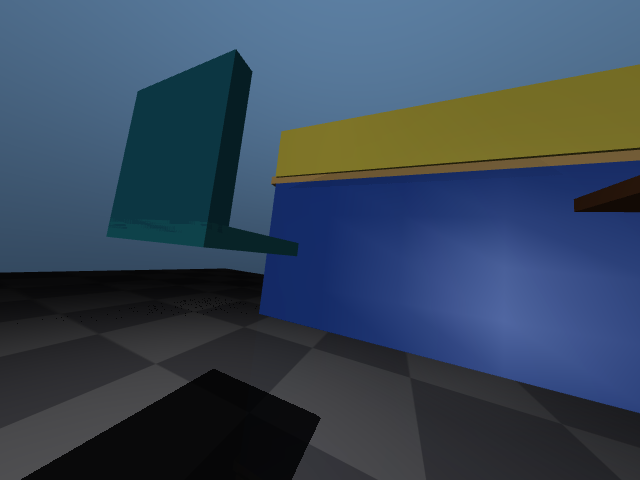
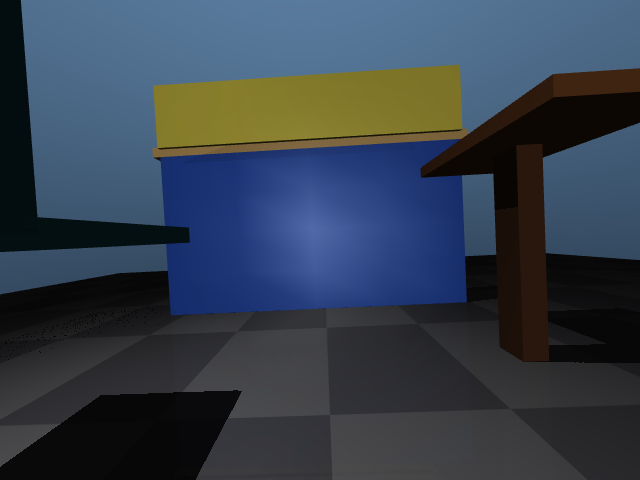
Walk find-kitchen at half the forward cap.
Full-cap slices and short slices with stand pauses did not get past about
0.4 m without crossing up_z 0.90 or losing the blob. vel(+0.028) reaches
the 0.60 m budget at min up_z 0.989, with 0.705 m still to the counter.
Arrival bars are unchanged. The plant file is untouched.

diff --git a/scripts/find_kitchen.py b/scripts/find_kitchen.py
@@ -13,12 +13,14 @@ are a sim honesty check that the blob sits on the kitchen. They are not
 waypoints and they are not given to a planner. If the backsplash is missing,
 split, or off the kitchen body, the finder sends no vel.
 
-The phrase path re-scores kit_cam every 0.40 s. A centered blob is forward
-at the bus cap. A side blob is the same forward cap plus a yaw trim scaled
-by the bias, not a held full-cap turn. The 1.2 s single forward hop stays
-in --self-test and still uses vx=0 for its one yaw. A burst budget near
-0.6 m is a stop, not a goal pose. Arrival is claimed only when the
-backsplash fills at least half the frame and the torso is within 0.25 m
+The phrase path re-scores kit_cam every 0.40 s and walks at half the
+forward cap (0.028 m/s). A centered blob is that vx with yaw 0. A side blob
+adds a yaw trim scaled by the bias. Full-cap slices and short slices with
+stand pauses between them are not this path: the first crossed up_z 0.90
+near +0.39 m, and the pauses never got past ~0.1 m. The up_z bar stays
+0.90. The 1.2 s hop stays in --self-test at the full forward cap. A burst
+budget near 0.6 m is a stop, not a goal pose. Arrival is claimed only when
+the backsplash fills at least half the frame and the torso is within 0.25 m
 of the kitchen geom. Otherwise the summary reports end x and the remaining
 gap and does not say arrived.
 
@@ -73,15 +75,19 @@ STAND_S = 0.60
 SETTLE_S = 0.60
 YAW_HOLD_S = 1.00
 FORWARD_HOLD_S = 1.20
-# Phrase path. kit_cam is scored between these slices.
-# A held full-cap walking turn (about 2 s of vel(+0.056, ±0.25)) pitched
-# through up_z 0.90 and the bus then faulted. These 0.40 s slices, with yaw
-# scaled by the bias, stayed above 0.92 out to the 0.60 m budget.
-# vx=0 yaw does not change heading on this plant.
+# Phrase path. kit_cam is scored between these slices. The gait stays in move.
+# Full-cap slices crossed up_z 0.90 near +0.39 m. A 0.20–0.30 s slice plus a
+# stand pause does not walk: vx slews to the cap in 0.70 s, and the pause
+# either drifts backward or yaws the kitchen out of frame. Half the forward
+# cap is the softer duty that stayed above up_z 0.90. vx=0 yaw does not
+# change heading on this plant.
 BURST_FORWARD_S = 0.40
 BURST_YAW_S = 0.40
-MAX_FORWARD_BURSTS = 40
-MAX_YAW_CORRECTIONS = 48
+SOFT_VX = steer_walk.VX_FWD_CAP * 0.5
+# Half-cap realized speed is about 0.016 m/s, so the 0.60 m stop needs
+# more slices than a full-cap walk. 120 * 0.40 s covers that with margin.
+MAX_FORWARD_BURSTS = 120
+MAX_YAW_CORRECTIONS = 80
 # |bias| at which the trim uses the full yaw cap. Inside CENTER_BIAS, yaw is 0.
 YAW_BIAS_FULL = 0.35
 # Stop once world-x progress is inside the requested 0.3–0.8 m band.
@@ -595,7 +601,7 @@ def correction_command(score: KitchenScore) -> tuple[float, float] | None:
     """Approach slice: forward cap, plus a bias trim when the blob is off center."""
     if score.decision == "fail":
         return None
-    return (steer_walk.VX_FWD_CAP, trim_yaw(score.bias))
+    return (SOFT_VX, trim_yaw(score.bias))
 
 
 BurstAction = Literal["forward", "yaw_left", "yaw_right", "stop"]
@@ -882,10 +888,11 @@ def _gap(model: mj.MjModel, data: mj.MjData) -> tuple[float, float]:
 
 
 def run_approach(session: steer_walk.SteerSession, cam: KitCam) -> Approach:
-    """Forward bursts while the backsplash stays valid, with a yaw burst if it drifts.
+    """Half-cap slices while the backsplash stays valid, with a yaw trim if it drifts.
 
-    The gait is left in move across a burst boundary so the 200 ms watchdog
-    does not stand between two vel segments. Stop is the end, or a Prefer FAIL.
+    The gait stays in move across a slice boundary. A stand between slices
+    resets the velocity slew and does not advance. Stop is the budget, or a
+    Prefer FAIL. up_z under 0.90 stops. That bar is not lowered.
     """
     _hold_stand(session, STAND_S)
     before = cam.grab(session.data)
@@ -1085,13 +1092,12 @@ def _commands_legal(sent: list[SentVel], *, allow_walk_yaw: bool = False) -> str
             return f"command outside caps vx={command.vx} yaw={command.yaw_rate}"
         if command.vx < 0.0:
             return "finder sent reverse"
-        both = command.vx != 0.0 and command.yaw_rate != 0.0
-        if not both:
+        if allow_walk_yaw:
+            if abs(command.vx - SOFT_VX) > 1e-9:
+                return "approach forward is half the bus cap"
             continue
-        if not allow_walk_yaw:
+        if command.vx != 0.0 and command.yaw_rate != 0.0:
             return "yaw and forward were sent together"
-        if command.vx != steer_walk.VX_FWD_CAP:
-            return "walk-yaw forward is only the forward cap"
     return None
 
 
@@ -1217,6 +1223,9 @@ def test_pixels() -> list[str]:
     _expect(command_for("yaw_left") == (0.0, steer_walk.YAW_RATE_CAP), "yaw left command", failures)
     _expect(command_for("yaw_right") == (0.0, -steer_walk.YAW_RATE_CAP), "yaw right command", failures)
     _expect(command_for("forward") == (steer_walk.VX_FWD_CAP, 0.0), "forward command", failures)
+    soft = correction_command(_fake_score("forward", 0.04, 0.0))
+    _expect(soft == (SOFT_VX, 0.0), f"soft forward {soft}", failures)
+    _expect(abs(SOFT_VX - 0.028) < 1e-9 and SOFT_VX < steer_walk.VX_FWD_CAP, "soft vx", failures)
     _expect(steer_walk.VX_FWD_CAP == 0.056 and steer_walk.VX_BACK_CAP == 0.032, "vx caps moved", failures)
     _expect(steer_walk.YAW_RATE_CAP == 0.25, "yaw cap moved", failures)
     return failures
@@ -1521,6 +1530,7 @@ def run_phrase(phrase: str, scene: SceneName) -> int:
         "scene": str(ROOM_XML.relative_to(ROOT)),
         "phrase": phrase,
         "vx_fwd_cap": steer_walk.VX_FWD_CAP,
+        "approach_vx": SOFT_VX,
         "vx_back_cap": steer_walk.VX_BACK_CAP,
         "yaw_rate_cap": steer_walk.YAW_RATE_CAP,
         "resend_hz": 1.0 / steer_walk.VEL_RESEND_S,

diff --git a/docs/FIND_KITCHEN.md b/docs/FIND_KITCHEN.md
@@ -21,36 +21,45 @@ A named-body projection of `kitchen`, `table`, and `chair` checks that the yello
 
 ## Phrase path
 
-The bus is `CommandBus` in `scripts/steer_walk.py`: `stand`, `stop`, and `vel(vx, yaw_rate)` only. Resend is 10 Hz. 200 ms of silence stands. The finder sends the forward cap and a yaw inside the yaw cap. The bus clamps again.
+The bus is `CommandBus` in `scripts/steer_walk.py`: `stand`, `stop`, and `vel(vx, yaw_rate)` only. Resend is 10 Hz. 200 ms of silence stands. The bus caps stay +0.056 / −0.032 m/s and yaw ±0.25. The phrase sends half the forward cap. The bus clamps again.
 
-From the stand pose the blob is already centered (`|bias| ≤ 0.08`, measured bias −0.014). The phrase then walks in 0.40 s slices and re-scores `kit_cam` between them:
+From the stand pose the blob is already centered (`|bias| ≤ 0.08`, measured bias −0.014). The phrase walks in 0.40 s slices, leaves the gait in move, and re-scores `kit_cam` between them:
 
-- centered: `vel(+0.056, 0)`
-- off center: `vel(+0.056, yaw)` with `yaw = clamp(−bias / 0.35 × 0.25, ±0.25)`
+- centered: `vel(+0.028, 0)`
+- off center: `vel(+0.028, yaw)` with `yaw = clamp(−bias / 0.35 × 0.25, ±0.25)`
 
-The trim is not a heading setpoint. Full yaw cap is used only when `|bias|` reaches 0.35. `vx = 0` yaw does not change heading on this plant, so the correction is a walking turn. A held full-cap turn of about 2 s pitched through `up_z` 0.90 and the bus then faulted, so the phrase does not do that. It stops on the first sample with `up_z` under 0.90.
+The trim is not a heading setpoint. Full yaw cap is used only when `|bias|` reaches 0.35. `vx = 0` yaw does not change heading on this plant, so a correction is a walking turn at the soft forward speed.
 
-There is also a 0.60 m world-x budget. That budget is a stop inside the 0.3–0.8 m band, not a counter pose. This room run did not reach it.
+The `up_z` Prefer FAIL bar stays **0.90**. It is not lowered. A full-cap slice run on the same bar stopped at end x +0.394 m when `up_z` hit 0.894. Shorter slices with a stand between them were tried and did not get past that distance:
+
+| Trial | Result |
+|-------|--------|
+| 0.25 s vel, 0.40 s stand | Δx −0.052 m at the time limit, min up_z 0.999. The velocity slew takes 0.70 s to reach a cap, so the slice never walks and the stand drifts backward. |
+| 0.25 s vel, 0.15 s stand | Δx −0.029 m, min up_z 0.999. Same stall. |
+| 0.20 s vel, 0.30 s stand | Kitchen left the frame at Δx +0.082 m (yaw +0.79 rad), min up_z 0.956. |
+
+Half the forward cap, with no stand between slices, is the duty that stayed upright. There is still a 0.60 m world-x budget. That budget is a stop, not a counter pose.
 
 Measured phrase, "go to the kitchen", room scene, after stand:
 
 | | |
 |--|--|
-| Stop | `up_z` 0.894 (bar 0.90), min up_z 0.890, mode stand |
-| End x | **+0.394 m** (start x +0.002 m, Δx **+0.392 m**) |
-| End y, yaw | +0.061 m, +0.095 rad |
-| Remaining | **0.921 m** from the torso to the kitchen geom (near face x = 1.315 m) |
-| Final blob | yellow fraction 0.076, bias +0.102, still in frame, still right of center |
+| Stop | 0.60 m world-x budget, mode stand |
+| End x | **+0.610 m** (start x +0.002 m, Δx **+0.608 m**) |
+| End y, yaw | +0.010 m, −0.020 rad |
+| min up_z | **0.989** (bar 0.90, not crossed) |
+| Remaining | **0.705 m** from the torso to the kitchen geom (near face x = 1.315 m) |
+| Final blob | yellow fraction **0.131**, bias −0.028, still centered, still in frame |
 | Arrival | **false** |
 
-Six centered slices and thirteen yaw trims were sent. The mid still is the first frame after Δx crossed 0.30 m (yellow 0.075, bias +0.49). The counter is larger than at the start and still a small part of the frame.
+79 centered slices and 12 yaw trims were sent, all at `vx = +0.028`. The mid still is the first frame after Δx crossed 0.30 m (yellow 0.066, bias −0.042). The counter is larger than at the start. 0.131 of the frame is not half.
 
 ## What would count as arrival
 
 Both bars, on the settled stop frame:
 
-1. Yellow fraction ≥ 0.50. Half the frame is "most of the frame". Stand is 0.039 and this stop is 0.076, so the counter does not fill the frame.
-2. Torso-to-kitchen horizontal gap ≤ 0.25 m. That is contact range for this torso, not a room crossing. 0.921 m is more than three times that bar.
+1. Yellow fraction ≥ 0.50. Half the frame is "most of the frame". Stand is 0.039 and this stop is 0.131, so the counter does not fill the frame.
+2. Torso-to-kitchen horizontal gap ≤ 0.25 m. That is contact range for this torso, not a room crossing. 0.705 m is still well outside that bar.
 
 Either bar alone is not arrival. A stop inside 0.25 m with the backsplash still small would be Prefer FAIL (`close`), not arrival. The gap is read from the kitchen geom boxes so the summary can state the remaining distance. It does not choose left versus right and it is not a waypoint.
 

diff --git a/README.md b/README.md
@@ -98,7 +98,7 @@ Forward clamp is **+0.056 m/s**, reverse **−0.032 m/s**, yaw **±0.25 rad/s**.
 
 `mujoco/room_kitchen.xml` includes the frozen walk plant and adds a kitchen counter plus a table and a chair (`kitchen`, `table`, `chair`). `kit_cam` is unchanged: one camera, `head_tilt_link`, `0.050 0.019 0.007`. The floor is still the plant plane. Those body names are labels for a later vision step. They are not a navigation map, and this scene is not handed to a planner. `scripts/steer_walk.py` still loads only the frozen plant by default, so stand / forward / reverse / left / right / left-then-right stay on the empty checkerboard. See `docs/KIT_CAM_ROOM.md`.
 
-"Go to the kitchen" is a Prefer FAIL finder in `scripts/find_kitchen.py`. It runs only when `room_kitchen.xml` is loaded. From a centered backsplash it re-scores `kit_cam` every 0.40 s and sends `vel(+0.056, yaw)` on the same bus. Yaw is 0 while the blob is centered, and a bias trim inside ±0.25 when it drifts. The 0.60 m world-x budget is a stop, not a goal. This room run stopped earlier: `up_z` crossed 0.90 at end x **+0.394 m** (Δx **+0.392 m**), with **0.921 m** still to the kitchen face. That is not arrival. Arrival would require the backsplash to fill at least half the frame and the torso to be within 0.25 m of the kitchen geom. Neither bar holds. The 1.2 s hop remains a self-test (end x +0.036 m). Bathroom and the empty plant still send no velocity. See `docs/FIND_KITCHEN.md`.
+"Go to the kitchen" is a Prefer FAIL finder in `scripts/find_kitchen.py`. It runs only when `room_kitchen.xml` is loaded. From a centered backsplash it re-scores `kit_cam` every 0.40 s and sends `vel(+0.028, yaw)` — half the forward cap — on the same bus. Yaw is 0 while the blob is centered, and a bias trim inside ±0.25 when it drifts. The `up_z` 0.90 stop is unchanged. This room run reached the 0.60 m world-x budget: end x **+0.610 m** (Δx **+0.608 m**), min up_z **0.989**, **0.705 m** still to the kitchen face. Yellow fraction at the stop is 0.131. That is not arrival. Arrival would require the backsplash to fill at least half the frame and the torso to be within 0.25 m of the kitchen geom. The 1.2 s hop remains a self-test at the full cap (end x +0.036 m). Bathroom and the empty plant still send no velocity. See `docs/FIND_KITCHEN.md`.
 
 ```bash
 MUJOCO_GL=osmesa python scripts/render_kit_cam_room.py

diff --git a/docs/KIT_CAM_ROOM.md b/docs/KIT_CAM_ROOM.md
@@ -20,4 +20,4 @@ That stands the robot with the same quiet pose as `scripts/steer_walk.py`, rende
 
 `scripts/steer_walk.py` still loads only the frozen plant by default. Voice can already steer stand / forward / reverse / left / right / left-then-right on that empty checkerboard.
 
-`scripts/find_kitchen.py` is the Prefer FAIL finder for this room. "Go to the kitchen" and "go to kitchen" call it only when `room_kitchen.xml` is loaded. It scores the current `kit_cam` frame (yellow backsplash blob, plus a named-body check that the blob sits on `kitchen` and not on `table` or `chair`). A centered blob gets a 0.40 s forward slice. If the blob drifts, the next slice keeps the forward cap and adds a yaw trim scaled by that bias. Bathroom, the empty plant, a kitchen that is not in frame, a split blob, or `up_z` under 0.90 send no further `vel`. The torso-to-kitchen distance is reported and is one arrival bar, not a path. The measured room run stopped at Δx +0.392 m with 0.921 m still to the counter, and did not claim arrival. See `docs/FIND_KITCHEN.md`.
+`scripts/find_kitchen.py` is the Prefer FAIL finder for this room. "Go to the kitchen" and "go to kitchen" call it only when `room_kitchen.xml` is loaded. It scores the current `kit_cam` frame (yellow backsplash blob, plus a named-body check that the blob sits on `kitchen` and not on `table` or `chair`). A centered blob gets a 0.40 s slice at half the forward cap (`vx = +0.028`). If the blob drifts, the next slice keeps that vx and adds a yaw trim scaled by the bias. Bathroom, the empty plant, a kitchen that is not in frame, a split blob, or `up_z` under 0.90 send no further `vel`. The torso-to-kitchen distance is reported and is one arrival bar, not a path. The measured room run stopped at the 0.60 m budget (Δx +0.608 m, min up_z 0.989, 0.705 m still to the counter) and did not claim arrival. See `docs/FIND_KITCHEN.md`.
